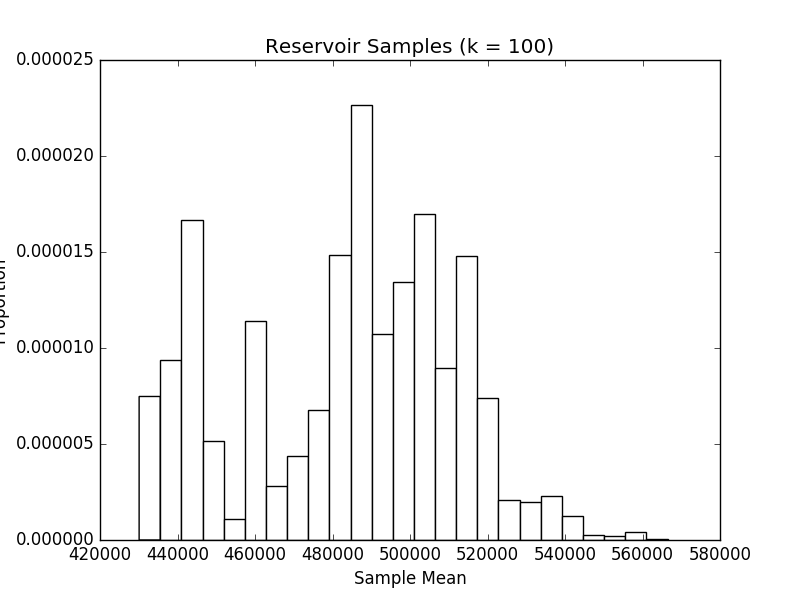
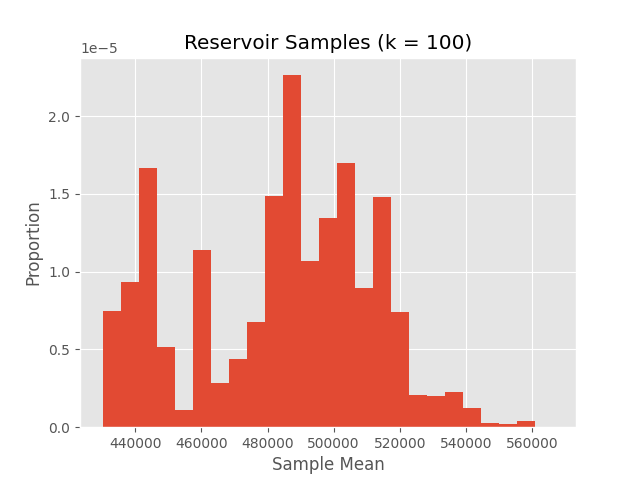
further changes and cleanup

diff --git a/examples/reservoir_sampling/reservoir_sampling.py b/examples/reservoir_sampling/reservoir_sampling.py
@@ -5,51 +5,28 @@ import math
 import numpy             as np
 import matplotlib.pyplot as plt
 
+from matplotlib import style
 
-def reservoir_sampling(data, size, k):
-    samples = np.empty((size - k, 2))
+from cowboysmall.sims.simulation import Simulation
 
-    sample  = []
-    for i in range(size):
+
+class ReservoirSampling(Simulation):
+
+    def step(self, i: int, data: dict) -> None:
+        k = data['k']
         if i < k:
-            sample.append(data[i])
+            data['sample'].append(data['population'][i])
         else:
             p = np.random.randint(0, i)
             if p < k:
-                sample[p] = data[i]
-            samples[i - k, 0] = np.mean(sample)
-            samples[i - k, 1] = np.std(sample)
-
-    return samples
-
-
-def print_results(results, data, k):
-    print()
-    print('            Reservoir Sampling:')
-    print()
-    print('       Population Distribution:')
-    print()
-    print('                          mean: %10.5g' % np.mean(data))
-    print('            standard deviation: %10.5g' % np.std(data))
-    print()
-    print()
-    print('         Sampling Distribution:')
-    print()
-    print('              theoretical mean: %10.5g' % np.mean(data))
-    print('theoretical standard deviation: %10.5g' % (np.std(data) / math.sqrt(k)))
-    print()
-    print()
-    print('         Observed Distribution:')
-    print()
-    print('                          mean: %10.5g' % np.mean(results[:, 0]))
-    print('                          bias: %10.5g' % (np.mean(results[:, 0]) - np.mean(data)))
-    print()
-    print('            standard deviation: %10.5g' % np.std(results[:, 0]))
-    print('                          bias: %10.5g' % (np.mean(results[:, 1]) - np.std(data)))
-    print()
+                data['sample'][p] = data['population'][i]
+            data['samples'][i - k, 0] = np.mean(data['sample'])
+            data['samples'][i - k, 1] = np.std(data['sample'])
 
 
 def plot_results(results, size, k):
+    style.use("ggplot")
+
     plt.clf()
     plt.title('Reservoir Samples (k = %s)' % (k))
 
@@ -57,23 +34,49 @@ def plot_results(results, size, k):
     plt.ylabel('Proportion')
 
     plt.figure(1, facecolor = 'w')
-    plt.hist(results[:, 0], color = 'white', bins = 25, normed = True)
+    plt.hist(results[:, 0], bins = 25, density = True)
 
     plt.savefig('./images/reservoir_sampling/reservoir_sampling_%s_%s.png' % (size, k), format = 'png')
     plt.close()
 
 
 def main(argv):
-    size    = int(argv[0])
-    k       = int(argv[1])
-
     np.random.seed(1337)
 
-    data    = np.random.randint(1, size, size)
-    results = reservoir_sampling(data, size, k)
+    size = int(argv[0])
+    k    = int(argv[1])
 
-    print_results(results, data, k)
-    plot_results(results, size, k)
+    population = np.random.randint(1, size, size)
+    samples    = np.empty((size - k, 2))
+
+    sim  = ReservoirSampling({'samples': samples, 'sample': [], 'population': population, 'size': size, 'k': k})
+    data = sim.run(size)
+
+    print()
+    print('            Reservoir Sampling:')
+    print()
+    print('       Population Distribution:')
+    print()
+    print('                          mean: %10.5g' % np.mean(population))
+    print('            standard deviation: %10.5g' % np.std(population))
+    print()
+    print()
+    print('         Sampling Distribution:')
+    print()
+    print('              theoretical mean: %10.5g' % np.mean(population))
+    print('theoretical standard deviation: %10.5g' % (np.std(population) / math.sqrt(k)))
+    print()
+    print()
+    print('         Observed Distribution:')
+    print()
+    print('                          mean: %10.5g' % np.mean(samples[:, 0]))
+    print('                          bias: %10.5g' % (np.mean(samples[:, 0]) - np.mean(population)))
+    print()
+    print('            standard deviation: %10.5g' % np.std(samples[:, 0]))
+    print('                          bias: %10.5g' % (np.mean(samples[:, 1]) - np.std(population)))
+    print()
+
+    plot_results(samples, size, k)
 
 
 if __name__ == "__main__":

diff --git a/examples/switch_strategy/switch_strategy.py b/examples/switch_strategy/switch_strategy.py
@@ -1,46 +1,47 @@
 import sys
 import random
 
+from cowboysmall.sims.simulation import Simulation
 
 
-def switch_strategy_simulation(count):
-    prisoners = [0] * count
-    leader    = random.choice(range(count))
+class SwitchStrategy(Simulation):
 
-    switch    = 0
-    days      = 0
+    def step(self, iteration: int, data: dict) -> None:
+        prisoners = data['prisoners']
+        leader    = data['leader']
+        count     = data['count']
+        switch    = 0
 
-    while prisoners[leader] < count - 1:
-        days += 1
-        p     = random.choice(range(count))
+        while prisoners[leader] < count - 1:
+            data['days'] += 1
+            p = random.choice(range(count))
 
-        if p == leader:
-            if switch == 1:
-                switch        = 0
-                prisoners[p] += 1
-        else:
-            if prisoners[p] == 0 and switch == 0:
-                switch        = 1
-                prisoners[p] += 1
-
-    return days
-
-
-def print_results(days):
-    print()
-    print('Switch Strategy:')
-    print()
-    print('All visited after %s years and %s days' % (days // 365, days % 365))
-    print()
+            if p == leader:
+                if switch == 1:
+                    switch = 0
+                    prisoners[p] += 1
+            else:
+                if prisoners[p] == 0 and switch == 0:
+                    switch = 1
+                    prisoners[p] += 1
 
 
 def main(argv):
-    count = int(argv[0])
-
     random.seed(1337)
 
-    print_results(switch_strategy_simulation(count))
+    count = int(argv[0])
 
+    prisoners = [0] * count
+    leader    = random.choice(range(count))
+
+    sim  = SwitchStrategy({'prisoners': prisoners, 'leader': leader, 'count': count, 'days': 0})
+    data = sim.run(1)
+
+    print()
+    print('Switch Strategy:')
+    print()
+    print('All visited after %s years and %s days' % (data['days'] // 365, data['days'] % 365))
+    print()
 
 
 if __name__ == "__main__":

diff --git a/examples/coin_toss/coin_toss_04.py b/examples/coin_toss/coin_toss_04.py
@@ -4,23 +4,18 @@ import random
 import numpy as np
 
 
-def markov(heads, tosses, bias):
-    A = np.zeros((heads + 1, heads + 1))
-
-    A[0, 0:heads] = 1 - bias
-    for i in range(1, heads + 1):
-        A[i, i - 1] = bias
-    A[heads, heads] = 1.0
-
-    return np.linalg.matrix_power(A, tosses)[heads, 0]
-
-
 def main(argv):
     heads  = int(argv[0])
     tosses = int(argv[1])
     bias   = float(argv[2]) if len(argv) == 3 else 0.5
 
-    prob = markov(heads, tosses, bias)
+    A = np.zeros((heads + 1, heads + 1))
+    A[0, 0:heads] = 1 - bias
+    for i in range(1, heads + 1):
+        A[i, i - 1] = bias
+    A[heads, heads] = 1.0
+
+    prob = np.linalg.matrix_power(A, tosses)[heads, 0]
 
     print()
     print('Coin Toss')

diff --git a/examples/bootstrap/bootstrap_01.py b/examples/bootstrap/bootstrap_01.py
@@ -33,12 +33,12 @@ def plot_results(samples, size, iterations, statistic):
 
 
 def main(argv):
+    np.random.seed(1337)
+
     mean       = int(argv[0])
     std        = int(argv[1])
     size       = int(argv[2])
     iterations = int(argv[3])
-
-    np.random.seed(1337)
 
     population = np.random.normal(mean, std, size)
     samples    = np.empty((iterations, 4))

diff --git a/examples/gamble/gamble_01.py b/examples/gamble/gamble_01.py
@@ -35,11 +35,11 @@ def plot_results(results, iterations, initial, margin):
 
 
 def main(argv):
+    np.random.seed(1337)
+
     iterations = int(argv[0])
     initial    = int(argv[1])
     margin     = int(argv[2])
-
-    np.random.seed(1337)
 
     results       = np.zeros((iterations + 1, 3))
     results[:, 0] = np.random.sample(iterations + 1)

diff --git a/examples/bootstrap/bootstrap_02.py b/examples/bootstrap/bootstrap_02.py
@@ -15,12 +15,12 @@ class Bootstrap(Simulation):
 
 
 def main(argv):
+    np.random.seed(1337)
+
     mean       = int(argv[0])
     std        = int(argv[1])
     size       = int(argv[2])
     iterations = int(argv[3])
-
-    np.random.seed(1337)
 
     population = np.random.normal(mean, std, size)
     samples    = np.empty((iterations, 1))

diff --git a/examples/gamble/gamble_02.py b/examples/gamble/gamble_02.py
@@ -26,11 +26,11 @@ class Gamble(Simulation):
 
 
 def main(argv):
+    random.seed(1337)
+
     iterations = int(argv[0])
     amount     = int(argv[1])
     margin     = int(argv[2])
-
-    random.seed(1337)
 
     sim  = Gamble({'amount': amount, 'margin': margin, 'count': 0})
     data = sim.run(iterations)

diff --git a/examples/gamble/random_walk.py b/examples/gamble/random_walk.py
@@ -33,10 +33,10 @@ def plot_results(results, iterations):
 
 
 def main(argv):
+    random.seed(1337)
+
     iterations = int(argv[0])
     initial    = int(argv[1])
-
-    random.seed(1337)
 
     sim  = RandomWalk({'value': initial, 'results': []})
     data = sim.run(iterations)

diff --git a/examples/monte_hall/monte_hall.py b/examples/monte_hall/monte_hall.py
@@ -33,9 +33,9 @@ def main(argv):
     iterations = int(argv[0])
 
     sim1  = MonteHall({'count': 0})
-    data1 = sim1.run(iterations)
-
     sim2  = MonteHall({'count': 0, 'jump': True})
+
+    data1 = sim1.run(iterations)
     data2 = sim2.run(iterations)
 
     print()
